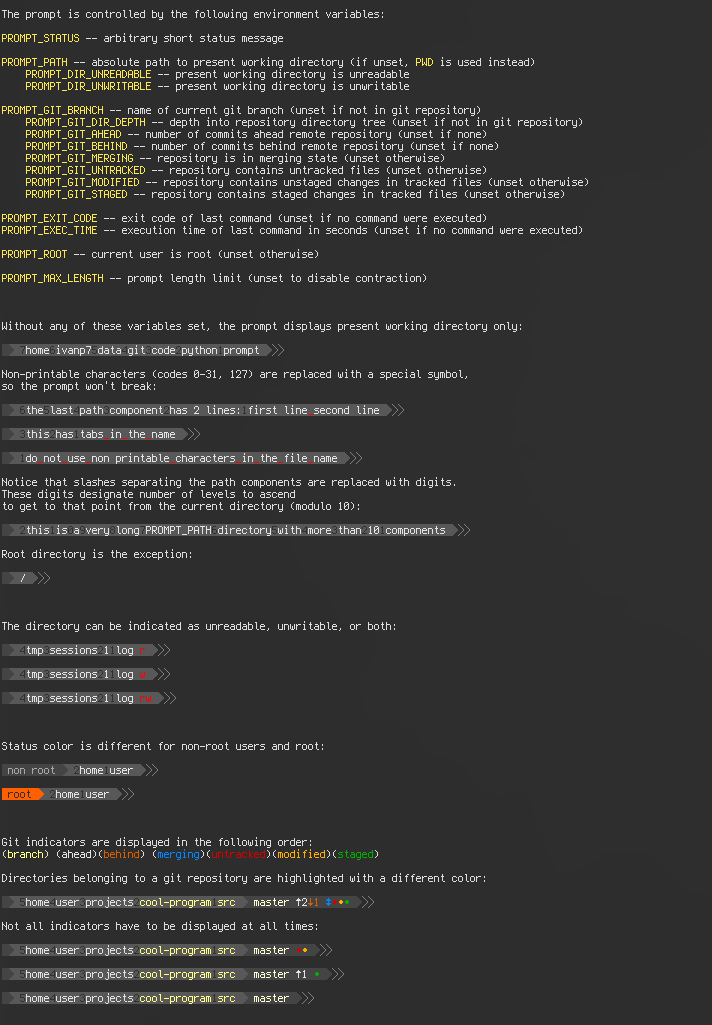
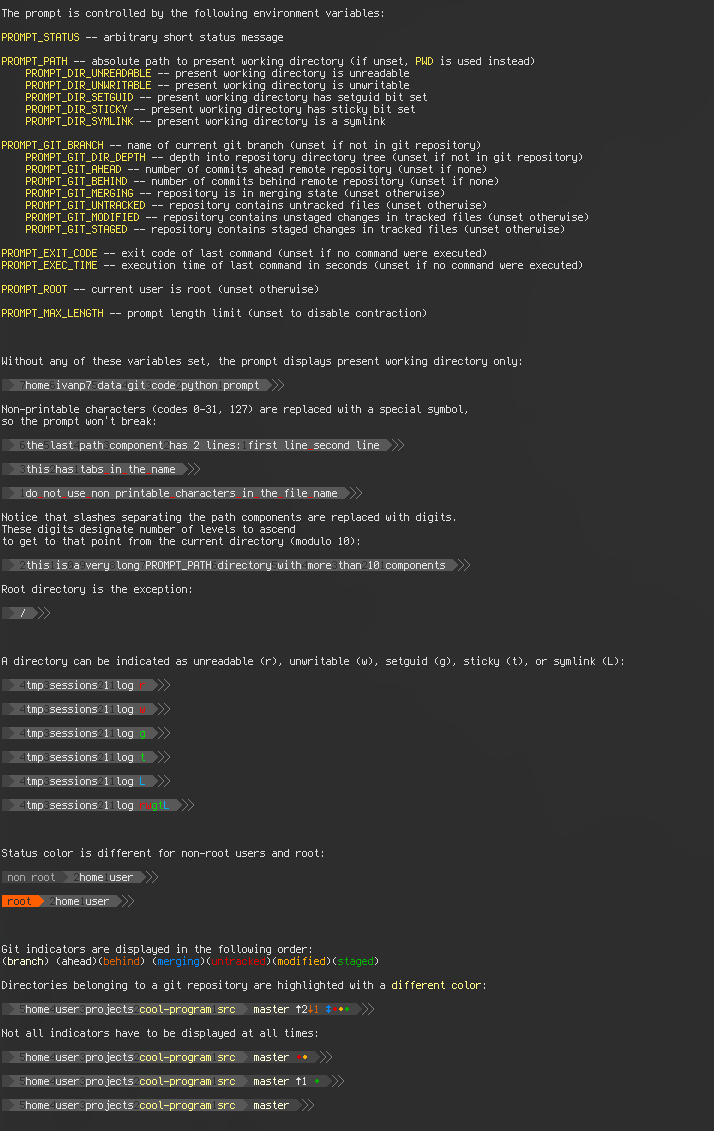
feat: implement directory indicators for setguid bit, sticky bit, symlink; make minor improvements

diff --git a/prompt.py b/prompt.py
@@ -22,13 +22,18 @@ DEFAULT_CHAR_PATH_OMIT = "▶"     # style['ch_path_omit']
 DEFAULT_CHAR_PATH_NONPRINT = "_" # style['ch_path_nonprint']
 DEFAULT_CHAR_PATH_DIR_UNREADABLE = "r" # style['ch_path_dir_unreadable']
 DEFAULT_CHAR_PATH_DIR_UNWRITABLE = "w" # style['ch_path_dir_unwritable']
+DEFAULT_CHAR_PATH_DIR_SETGUID    = "g" # style['ch_path_dir_setguid']
+DEFAULT_CHAR_PATH_DIR_STICKY     = "t" # style['ch_path_dir_sticky']
+DEFAULT_CHAR_PATH_DIR_SYMLINK    = "L" # style['ch_path_dir_symlink']
 
 DEFAULT_COLOR_PATH_DIR_FG = 254      # style['col_path_dir_fg']
 DEFAULT_COLOR_PATH_GIT_DIR_FG = 228  # style['col_path_git_dir_fg']
 DEFAULT_COLOR_PATH_SEP_FG = 236      # style['col_path_sep_fg']
 DEFAULT_COLOR_PATH_OMIT_FG = 200     # style['col_path_omit_fg']
 DEFAULT_COLOR_PATH_NONPRINT_FG = 196 # style['col_path_nonprint_fg']
-DEFAULT_COLOR_PATH_PERM_FG = 196     # style['col_path_perm_fg']
+DEFAULT_COLOR_PATH_NOPERM_FG = 196   # style['col_path_noperm_fg']
+DEFAULT_COLOR_PATH_PERM_FG = 40      # style['col_path_perm_fg']
+DEFAULT_COLOR_PATH_TYPE_FG = 39      # style['col_path_type_fg']
 DEFAULT_COLOR_PATH_BG = 240          # style['col_path_bg']
 
 ##################
@@ -107,6 +112,7 @@ class Prompt:
     """
     def __init__(self, status: str, path: str,
                  path_dir_unreadable: bool=False, path_dir_unwritable: bool=False,
+                 path_dir_setguid: bool=False, path_dir_sticky: bool=False, path_dir_symlink: bool=False,
                  git_branch: str=None, path_git_dir_depth: str=None,
                  git_ahead: str=None, git_behind: str=None, git_merging: bool=False,
                  git_untracked: bool=False, git_modified: bool=False, git_staged: bool=False,
@@ -122,6 +128,9 @@ class Prompt:
         self._path = path
         self._path_dir_unreadable = path_dir_unreadable
         self._path_dir_unwritable = path_dir_unwritable
+        self._path_dir_setguid = path_dir_setguid
+        self._path_dir_sticky = path_dir_sticky
+        self._path_dir_symlink = path_dir_symlink
 
         self._git_branch = git_branch
         try:
@@ -144,7 +153,8 @@ class Prompt:
 
         assert self._max_length is None or self._max_length > 0
 
-        for prop in ['style', 'status', 'path', 'path_dir_unreadable', 'path_dir_unwritable', 'path_git_dir_depth',
+        for prop in ['style', 'status', 'path', 'path_dir_unreadable', 'path_dir_unwritable',
+                     'path_dir_setguid', 'path_dir_sticky', 'path_dir_symlink', 'path_git_dir_depth',
                      'git_branch', 'git_ahead', 'git_behind',
                      'git_merging', 'git_untracked', 'git_modified', 'git_staged',
                      'exit_code', 'exec_time', 'root', 'max_length']:
@@ -234,18 +244,26 @@ class Prompt:
         CHAR_PATH_NONPRINT = self._style.get('ch_path_nonprint', DEFAULT_CHAR_PATH_NONPRINT)
         CHAR_PATH_DIR_UNREADABLE = self._style.get('ch_path_dir_unreadable', DEFAULT_CHAR_PATH_DIR_UNREADABLE)
         CHAR_PATH_DIR_UNWRITABLE = self._style.get('ch_path_dir_unwritable', DEFAULT_CHAR_PATH_DIR_UNWRITABLE)
+        CHAR_PATH_DIR_SETGUID = self._style.get('ch_path_dir_setguid', DEFAULT_CHAR_PATH_DIR_SETGUID)
+        CHAR_PATH_DIR_STICKY = self._style.get('ch_path_dir_sticky', DEFAULT_CHAR_PATH_DIR_STICKY)
+        CHAR_PATH_DIR_SYMLINK = self._style.get('ch_path_dir_symlink', DEFAULT_CHAR_PATH_DIR_SYMLINK)
 
         assert len(CHAR_PATH_OMIT) == 1
         assert len(CHAR_PATH_NONPRINT) == 1
         assert len(CHAR_PATH_DIR_UNREADABLE) == 1
         assert len(CHAR_PATH_DIR_UNWRITABLE) == 1
+        assert len(CHAR_PATH_DIR_SETGUID) == 1
+        assert len(CHAR_PATH_DIR_STICKY) == 1
+        assert len(CHAR_PATH_DIR_SYMLINK) == 1
 
         COLOR_PATH_DIR_FG = self._style.get('col_path_dir_fg', DEFAULT_COLOR_PATH_DIR_FG)
         COLOR_PATH_GIT_DIR_FG = self._style.get('col_path_git_dir_fg', DEFAULT_COLOR_PATH_GIT_DIR_FG)
         COLOR_PATH_SEP_FG = self._style.get('col_path_sep_fg', DEFAULT_COLOR_PATH_SEP_FG)
         COLOR_PATH_OMIT_FG = self._style.get('col_path_omit_fg', DEFAULT_COLOR_PATH_OMIT_FG)
         COLOR_PATH_NONPRINT_FG = self._style.get('col_path_nonprint_fg', DEFAULT_COLOR_PATH_NONPRINT_FG)
+        COLOR_PATH_NOPERM_FG = self._style.get('col_path_noperm_fg', DEFAULT_COLOR_PATH_NOPERM_FG)
         COLOR_PATH_PERM_FG = self._style.get('col_path_perm_fg', DEFAULT_COLOR_PATH_PERM_FG)
+        COLOR_PATH_TYPE_FG = self._style.get('col_path_type_fg', DEFAULT_COLOR_PATH_TYPE_FG)
         COLOR_PATH_BG = self._style.get('col_path_bg', DEFAULT_COLOR_PATH_BG)
 
         CHAR_GIT_AHEAD = self._style.get('ch_git_ahead', DEFAULT_CHAR_GIT_AHEAD)
@@ -307,8 +325,11 @@ class Prompt:
         else:
             length += 1 + 1 + 1 + 1 # triangle, space, slash, space
 
-        if self._path_dir_unreadable or self._path_dir_unwritable:
-            length += int(self._path_dir_unreadable) + int(self._path_dir_unwritable) + 1 # char, char, space
+        if self._path_dir_unreadable or self._path_dir_unwritable \
+                or self._path_dir_setguid or self._path_dir_sticky or self._path_dir_symlink:
+            length += int(self._path_dir_unreadable) + int(self._path_dir_unwritable) + \
+                    int(self._path_dir_setguid) + int(self._path_dir_sticky) + \
+                    int(self._path_dir_symlink) + 1 # char, char, char, char, char, space
 
         length_git_status_block = 0
         length_git_branch = 0
@@ -460,14 +481,30 @@ class Prompt:
             self._str += color1(path_dir_fg) + "/"
         self._str += " "
 
-        if self._path_dir_unreadable or self._path_dir_unwritable:
-            self._str += color1(COLOR_PATH_PERM_FG)
+        if self._path_dir_unreadable or self._path_dir_unwritable \
+                or self._path_dir_setguid or self._path_dir_sticky or self._path_dir_symlink:
+            if self._path_dir_unreadable or self._path_dir_unwritable:
+                self._str += color1(COLOR_PATH_NOPERM_FG)
 
-            if self._path_dir_unreadable:
-                self._str += CHAR_PATH_DIR_UNREADABLE
+                if self._path_dir_unreadable:
+                    self._str += CHAR_PATH_DIR_UNREADABLE
 
-            if self._path_dir_unwritable:
-                self._str += CHAR_PATH_DIR_UNWRITABLE
+                if self._path_dir_unwritable:
+                    self._str += CHAR_PATH_DIR_UNWRITABLE
+
+            if self._path_dir_setguid or self._path_dir_sticky:
+                self._str += color1(COLOR_PATH_PERM_FG)
+
+                if self._path_dir_setguid:
+                    self._str += CHAR_PATH_DIR_SETGUID
+
+                if self._path_dir_sticky:
+                    self._str += CHAR_PATH_DIR_STICKY
+
+            if self._path_dir_symlink:
+                self._str += color1(COLOR_PATH_TYPE_FG)
+
+                self._str += CHAR_PATH_DIR_SYMLINK
 
             self._str += " "
 
@@ -519,6 +556,9 @@ if __name__ == '__main__':
                      os.environ['PROMPT_PATH'] if 'PROMPT_PATH' in os.environ else os.environ['PWD'],
                      path_dir_unreadable='PROMPT_DIR_UNREADABLE' in os.environ,
                      path_dir_unwritable='PROMPT_DIR_UNWRITABLE' in os.environ,
+                     path_dir_setguid='PROMPT_DIR_SETGUID' in os.environ,
+                     path_dir_sticky='PROMPT_DIR_STICKY' in os.environ,
+                     path_dir_symlink='PROMPT_DIR_SYMLINK' in os.environ,
                      git_branch=os.environ.get('PROMPT_GIT_BRANCH', None),
                      path_git_dir_depth=os.environ.get('PROMPT_GIT_DIR_DEPTH', None),
                      git_ahead=os.environ.get('PROMPT_GIT_AHEAD', None),
